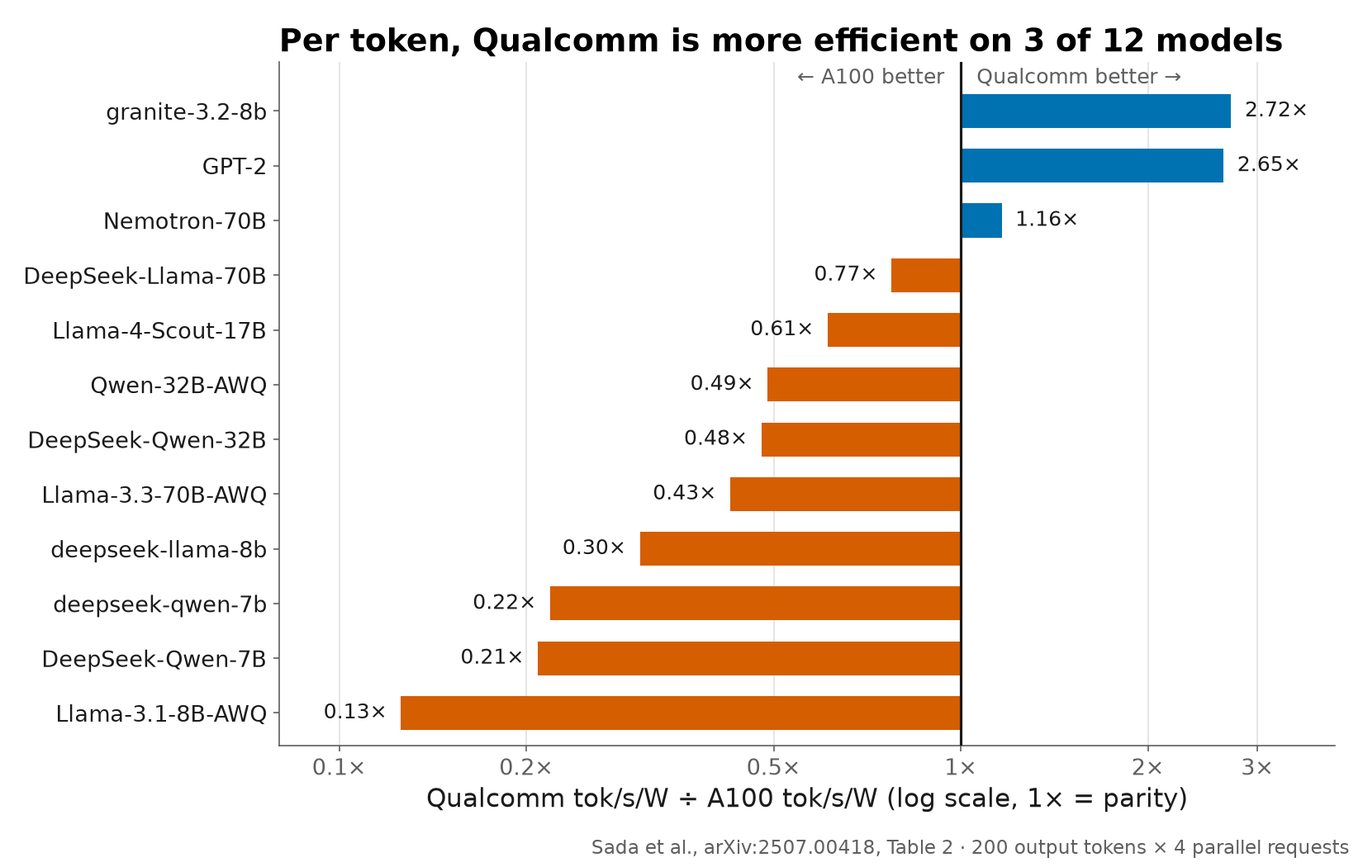
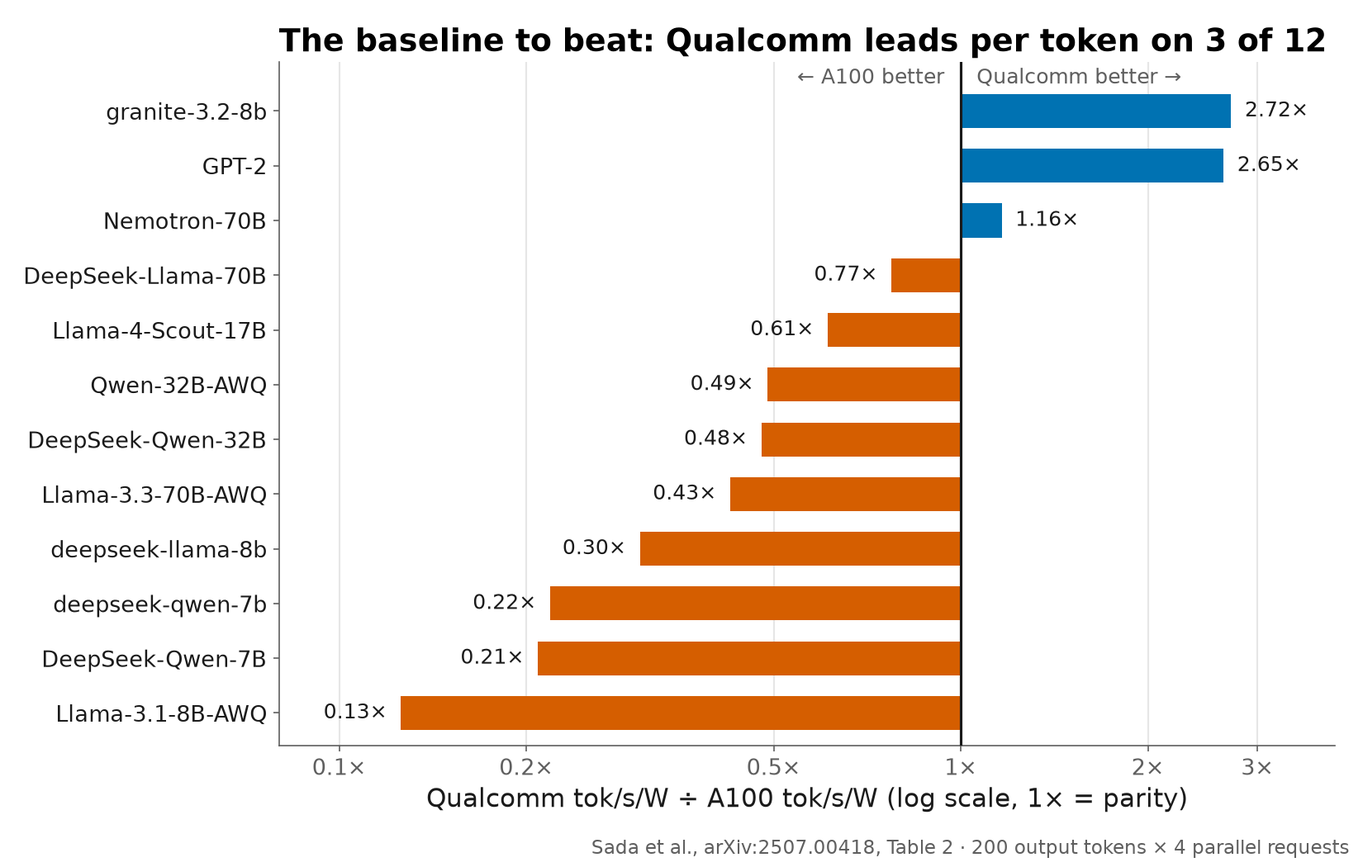
Blog: reframe the paper post around what a new stack could add
Present Sada et al. as the baseline, quoting the abstract's own framing
(competitive efficiency, advantages on specific models, finer allocation),
and move the device-count and batch-cap observations into a "headroom is
in the software" section. Adds the 70B pair (DeepSeek-Llama-70B on 8
devices vs Nemotron-70B on 4) and a short "why inference, why now" section.

Correct the claim that the abstract states "10-35x" (it's in the
conclusion), with an update note on the post. Reword H3 before any runs to
a prediction about the A100 ("raises the A100's tok/s/W"), keeping the test
itself. Retitle the two paper figures neutrally, and fix the paper's title
in CLAUDE.md.

Changed region(s): [[0.1855, 0.0305, 0.9891, 0.061]]

diff --git a/blog/index.html b/blog/index.html
@@ -9,23 +9,25 @@ title: Home
   <p>
     A 2025 UCSD study (<a href="https://arxiv.org/abs/2507.00418">arXiv:2507.00418</a>)
     served 12 LLMs on the <strong>Qualcomm Cloud AI 100 Ultra</strong> and on
-    <strong>4×/8× NVIDIA A100</strong>, using vLLM on both. Its headline was
-    <strong>10–35× lower power</strong>. Per token, though, Qualcomm was more efficient on only
-    <strong>3 of 12</strong> models, and it served most models at ~6–25 tok/s.
+    <strong>4×/8× NVIDIA A100</strong>, using vLLM on both. It found competitive energy efficiency,
+    a lead in tokens per watt on <strong>3 of 12</strong> models, and much finer hardware allocation:
+    a small model on one 36 W device, a 70B model on one card. Its tables also show headroom
+    that looks like software: similar models needing very different amounts of silicon, and
+    batching capped at 4.
   </p>
 
   <p>
     Since then, Qualcomm acquired Modular, and
     <a href="https://www.modular.com/blog/modcon-qualcomm">ModCon 2026</a> showed
     <strong>MAX</strong> running on Cloud AI 100 Ultra. This project re-runs the study
-    with MAX as the serving engine to test whether those numbers reflected the chip or the software.
+    with MAX as the serving engine to measure how much better the chip gets with a newer software stack.
   </p>
 
   <p><strong>Hypotheses, stated before any runs:</strong></p>
   <ul>
-    <li><strong>H1:</strong> on Qualcomm, MAX substantially outperforms the paper's vLLM numbers</li>
+    <li><strong>H1:</strong> on Qualcomm, MAX substantially raises throughput over the paper's numbers at similar power</li>
     <li><strong>H2:</strong> on the A100, MAX matches or beats vLLM in throughput and tok/s/W</li>
-    <li><strong>H3:</strong> a fair A100 setup (1 GPU for ≤8B models) shrinks Qualcomm's apparent advantage</li>
+    <li><strong>H3:</strong> a right-sized A100 (1 GPU for ≤8B models) raises the A100's tokens per watt</li>
     <li><strong>H4:</strong> one Mojo kernel runs unchanged on Apple, NVIDIA, and Qualcomm silicon</li>
   </ul>
 

diff --git a/analysis/plot_paper.py b/analysis/plot_paper.py
@@ -91,7 +91,7 @@ def power_vs_throughput(rows: list[dict]) -> None:
     ax.set_yticks(y, [r["label"] for r in rows], color=INK)
     ax.grid(axis="y", visible=False)
     ax.set_xlabel("Qualcomm vs the A100 setup: × lower (log scale)")
-    ax.set_title("7–35× less power, but 12–75× less throughput", pad=40)
+    ax.set_title("7–35× less power, at 12–75× less throughput", pad=40)
     ax.legend(loc="lower left", bbox_to_anchor=(0, 1.0), ncol=2, handletextpad=0.3, columnspacing=1.6,
               borderaxespad=0.2)
     fig.text(0.99, 0.01, "Sada et al., arXiv:2507.00418, Table 2 · 200 output tokens × 4 parallel requests",
@@ -122,7 +122,7 @@ def efficiency_ratio(rows: list[dict]) -> None:
     ax.text(0.94, len(rows) - 0.4, "← A100 better", color=MUTED, fontsize=12, va="center", ha="right")
     ax.set_ylim(-0.6, len(rows) - 0.1)
     ax.set_xlabel("Qualcomm tok/s/W ÷ A100 tok/s/W (log scale, 1× = parity)")
-    ax.set_title("Per token, Qualcomm is more efficient on 3 of 12 models")
+    ax.set_title("The baseline to beat: Qualcomm leads per token on 3 of 12")
     fig.text(0.99, 0.01, "Sada et al., arXiv:2507.00418, Table 2 · 200 output tokens × 4 parallel requests",
              ha="right", va="bottom", fontsize=11, color=MUTED)
     fig.tight_layout(rect=(0, 0.03, 1, 1))

diff --git a/blog/_posts/2026-09-28-why-this-paper.md b/blog/_posts/2026-09-28-why-this-paper.md
@@ -3,7 +3,7 @@ layout: post
 title: "Chip or software? Why I'm re-running the Qualcomm Cloud AI 100 vs A100 study on Modular MAX"
 date: 2026-09-28
 tags: [qualcomm, nvidia, max, mojo, modular, llm-inference, energy-efficiency]
-excerpt: "A 2025 UCSD study found Qualcomm's Cloud AI 100 Ultra drew 7–35× less power than A100s for LLM serving, yet was more efficient per token on only 3 of 12 models. Both sides ran vLLM. Qualcomm now owns Modular, so here's what the paper shows, what it leaves open, and why it's the right yardstick for MAX and Mojo."
+excerpt: "A 2025 UCSD study served 12 LLMs on Qualcomm's Cloud AI 100 Ultra and on NVIDIA A100s, both through vLLM. It found competitive energy efficiency, a clear lead on some models, and far finer hardware allocation. Its own tables also show headroom that looks like software. Qualcomm now owns Modular, so I'm re-running the study on MAX to measure how much of that headroom a new stack can claim."
 ---
 
 In July 2025, a team at UC San Diego published
@@ -13,10 +13,18 @@ In July 2025, a team at UC San Diego published
 the company behind the MAX inference framework and the Mojo language. A month after that, Modular showed
 [MAX running on the same Qualcomm accelerator](https://www.modular.com/blog/modcon-qualcomm).
 
-Those three events set up a question the paper couldn't ask: **were its results about the chip, or about the
-software running on it?** This post explains what the paper did, why I think it matters, what I read in its numbers,
-and why it's the right yardstick for Modular's claims. The [first results post]({{ site.baseurl }}/2026/09/28/benchmarking-before-benchmarking.html)
+Those three events raise a question the paper had no way to ask: **how much better does this chip get with a newer
+software stack?** This post explains what the paper found, why its numbers suggest there's more to get from the
+hardware, and how I plan to measure it. The [first results post]({{ site.baseurl }}/2026/09/28/benchmarking-before-benchmarking.html)
 covers how I built and validated the benchmark harness.
+
+## Why inference, and why now
+
+Training a model is a one-time cost. Serving it is paid on every request, for as long as the model is in use, and
+for most organizations running LLMs that's now where most of the compute and the power bill goes. At that point
+the numbers that matter are **tokens per joule** and **how finely you can divide hardware among users**, not peak
+FLOPS. Accelerators built for inference, like Qualcomm's Cloud AI 100, are designed around exactly those two
+numbers. The question is whether the software lets them deliver.
 
 ## The paper in one paragraph
 
@@ -24,102 +32,73 @@ The authors serve 12 open models, from GPT-2 (124M parameters) to three 70B mode
 [National Research Platform](https://nationalresearchplatform.org/) (NRP), a shared Kubernetes cluster used by more than
 300 research groups. One side is a node with 8 **Qualcomm Cloud AI 100 Ultra** cards at the San Diego Supercomputer
 Center. Each card contains four independent chips ("devices"). The other side is nodes with 4 or 8 **NVIDIA A100 80 GB** GPUs.
-Both sides serve through **vLLM**: stock vLLM on the A100s, and a Qualcomm-provided vLLM fork on Cloud AI 100, where each
-model is first exported to ONNX and compiled ahead of time into a Qualcomm Program Container (QPC). The benchmark
-sweeps output length (10 to 2,048 tokens) × concurrent requests (1 to 32), and it measures throughput and accelerator
-power, sampled once per second.
+Both sides serve through **vLLM**: stock vLLM on the A100s, and a Qualcomm-provided vLLM fork on Cloud AI 100 (SDK 1.20),
+where each model is first exported to ONNX and compiled ahead of time into a Qualcomm Program Container (QPC). The
+benchmark sweeps output length (10 to 2,048 tokens) × concurrent requests (1 to 32), and it measures throughput and
+accelerator power.
 
-## Why this paper matters
+## What the paper found
 
-**It's an independent measurement of non-NVIDIA inference hardware, with power, in production.** Vendor
-benchmarks are easy to find. Third-party numbers that include watts, taken on a real multi-tenant cluster rather than a
-tuned demo box, are rare. The work was funded under an NSF program whose title states the stakes: *Democratizing the
-Accelerator Ecosystem for Science and Discovery*.
+In the authors' words, Qualcomm "achieves competitive energy efficiency with advantages on specific models while
+enabling more granular hardware allocation." Their examples make the granularity point concrete:
 
-**It measures the right things for inference at scale.** Serving cost is driven by energy per token and by how
-finely you can divide hardware among users, not by peak FLOPS. The paper's strongest finding is about
-**granularity**. A single Cloud AI 100 device served granite-3.2-8b at 36 W, and Nemotron-70B ran on one card (four
-devices) at 148 W. Compare that with the 4 and 8 A100s the authors used, which drew 1,246 W and 2,983 W. For a
-cluster serving hundreds of groups, being able to hand out a 36 W slice instead of a whole 80 GB GPU is an operational
-advantage in its own right.
+- **Small models on a quarter of a card.** granite-3.2-8b serves from a single Cloud AI 100 device at **36 W**, where
+  the A100 setup used four GPUs at 1,246 W.
+- **A 70B model on one card.** Nemotron-70B runs on one card (four devices) at **148 W**, where the A100 setup used
+  eight GPUs at 2,983 W.
 
-**Its protocol is concrete enough to reproduce.** The paper spells out the test grid, the client (Python
-`requests` plus a thread pool), how throughput is computed, and how power is sampled. That's what makes a re-run with a
-different software stack a fair comparison rather than a new, unrelated benchmark.
+For a shared cluster serving hundreds of groups, being able to hand out a 36 W slice instead of a whole 80 GB GPU is
+an operational advantage in its own right.
 
-## What the numbers actually say
+The paper is also clear that A100s deliver higher absolute throughput, and it frames Qualcomm's case around power
+budgets and granularity. Plotting both halves of its Table 2 (200 output tokens, 4 parallel requests) shows where
+Qualcomm already leads:
 
-The headline, repeated in the abstract and the conclusion, is power: Qualcomm uses 10–35× less (from the paper's
-Table 2 I get 7–35×). That's true, but power is only half of efficiency. The other half is how much work you get for
-that power. The paper reports one cell of its grid in detail (Table 2: 200 output tokens, 4 parallel requests), and
-plotting both halves from that table tells a more mixed story:
+![For each of 12 models, how many times less power Qualcomm draws (7 to 35×) and how many times less throughput it delivers (12 to 75×). For granite-3.2-8b, GPT-2 and Nemotron-70B, the power reduction is larger than the throughput reduction.]({{ site.baseurl }}/assets/modlearn/paper-power-vs-throughput.png)
 
-![For each of 12 models, how many times less power Qualcomm draws (7 to 35×) and how many times less throughput it delivers (12 to 75×). Only granite-3.2-8b, GPT-2 and Nemotron-70B have a power reduction larger than their throughput reduction.]({{ site.baseurl }}/assets/modlearn/paper-power-vs-throughput.png)
-
-When the throughput gap (orange) is wider than the power gap (blue), the A100 gets more tokens per joule. Divide one
-by the other and you get the efficiency ratio, which the paper also reports in Table 3:
+Where the power saving (blue) is larger than the throughput gap (orange), Qualcomm produces more tokens per joule.
+Dividing one by the other gives the efficiency ratio, which the paper reports in its Table 3:
 
 ![Qualcomm tokens per second per watt divided by A100's, per model, on a log scale. Above parity: granite-3.2-8b 2.72×, GPT-2 2.65×, Nemotron-70B 1.16×. Below parity: nine models from 0.77× down to 0.13×.]({{ site.baseurl }}/assets/modlearn/paper-efficiency-ratio.png)
 
-**Per token, Qualcomm is more efficient on 3 of 12 models.** On the other nine, the A100 setup is 1.3× to 8× more
-efficient. The absolute throughput on Qualcomm is also low for most models: 6–25 tok/s in total across four
-concurrent requests, which is a few tokens per second for each user.
+These are the "specific models" in the abstract: **granite-3.2-8b (2.7×), GPT-2 (2.7×), and Nemotron-70B (1.16×)**,
+on 2025 software. This chart is the baseline I want to move. If a new stack raises Qualcomm's throughput without
+raising its power much, bars move right, and the count of models above parity goes up.
 
-The paper is candid that A100 delivers "higher absolute throughput," and it frames Qualcomm's case around power
-budgets and granularity. That's fair. But the efficiency picture is the one a data-center operator pays for, and it's
-the one I want to test.
+## The headroom is in the software
 
-## Reading the fine print
+The most interesting numbers in the paper are the ones that don't line up, because they point at what software could
+fix. Two pairs of models stand out:
 
-A careful re-read turned up six details that shape how far those numbers generalize. None of them is a criticism of
-the effort; a first measurement in a production cluster is hard, and the authors document their choices. They are the
-reasons to measure again.
+| Pair | Qualcomm devices | Throughput | Power |
+|---|---|---|---|
+| granite-3.2-8b | 1 | 25 tok/s | 36 W |
+| DeepSeek-R1-Distill-Llama-8B (same size) | 4 | 24 tok/s | 140 W |
+| DeepSeek-R1-Distill-Llama-70B | 8 | 8 tok/s | 292 W |
+| Nemotron-70B (same Llama-70B architecture) | 4 | 6 tok/s | 148 W |
 
-1. **The batch size is fixed at compile time, and the A100 was capped to match.** On Qualcomm, each model is compiled
-   ahead of time for a batch size of 1, 2, or 4, and the paper notes that "compilation can take hours." On A100, vLLM's
-   `--max-num-seqs` was set "matching the batch size from QPC compilation." So neither system served more than four
-   sequences at once, even in the 16- and 32-request tests. That's a sensible choice for a like-for-like comparison. It
-   also switches off the thing GPUs are best at, which is batching dozens of requests together, and it explains why
-   the paper's headline cell is 4 parallel requests.
-2. **Small models ran on 4 A100s.** The authors say some of them "could potentially run on fewer A100 GPUs." An 8B model
-   fits on one A100 80 GB, so the A100 power for those rows is roughly four GPUs' worth for one GPU's work.
-3. **The precision may differ.** The A100s ran fp16. Qualcomm was compiled with "FP16 or INT8 quantization where
-   applicable," and the paper doesn't say which models used which.
-4. **One cell of 30 is reported.** The grid covers 6 output lengths × 5 concurrency levels, but the tables show only
-   200 tokens × 4 requests. The prompts and code aren't published, and two rows (`deepseek-qwen-7b` and `DeepSeek-Qwen-7B`)
-   report different numbers without explanation.
-5. **Power is sampled at 1 s, for the accelerator only, and idle isn't measured.** In
-   [my pilot]({{ site.baseurl }}/2026/09/28/benchmarking-before-benchmarking.html), 1 s sampling overstated
-   efficiency by up to 12× on sub-second batches. That was on an Apple GPU that idles near 0 W, so the effect on an A100
-   would be smaller, but the exposure exists for the 10- and 50-token cells. The paper also says Qualcomm's advantage
-   grows at idle, but it doesn't report idle power.
-6. **Table 3's rack-scale view assumes perfect scaling.** It extrapolates to 32 Qualcomm devices and 8 A100s by assuming
-   N copies of a model deliver N× the throughput, which is an upper bound.
+In both pairs, similar models get similar throughput from very different amounts of silicon. If the chip's raw
+capability set the limit, four devices would do more than one. Something between the model and the silicon is doing
+the limiting: how the model is exported, compiled, split across devices, and scheduled.
 
-## Chip or software? The case for software
+Two more signs point the same way:
 
-Here's the evidence inside the paper itself. The Qualcomm hardware serves **granite-3.2-8b on one device at 25 tok/s
-and 36 W**. It serves **DeepSeek-R1-Distill-Llama-8B**, a model of the same size, on **four devices at 24 tok/s and
-140 W**. That's four times the silicon and nearly four times the power for the same throughput. It also serves
-**GPT-2 at 218 tok/s on one device**. If the chip's raw capability set the limit, four devices would do more than one.
-Something between the model and the silicon is doing the limiting: how the model is exported, compiled, partitioned
-across devices, and scheduled.
+- **Batching is fixed at compile time.** Each Qualcomm model is compiled ahead of time for a batch size of 1, 2, or 4,
+  and the paper notes that "compilation can take hours." To compare like with like, the authors capped vLLM on the
+  A100 to the same batch size. So neither side batched more than four requests, even in the 16- and 32-request tests.
+  Batching many requests together is the main way servers turn spare compute into throughput.
+- **Per-user speed is low.** Most models serve at 6–25 tok/s across four concurrent requests, a few tokens per second
+  for each user. GPT-2, which is small enough to be compute-light, reaches 218 tok/s on a single device. The hardware
+  can clearly move faster than most of these numbers show.
 
-To be fair, the two 8B rows may also differ in precision or compiled batch size, since the paper doesn't say. But
-those are software choices too.
+The paper doesn't say which precision each Qualcomm model was compiled at (FP16 or INT8) or which batch size, and
+those may explain part of the gaps above. But precision and batch size are software choices too. Every step in the
+path is software: the ONNX export, the ahead-of-time compile, the device partitioning, and a vLLM fork maintained
+separately from upstream vLLM.
 
-Every step in that path is software:
-- the ONNX export
-- the ahead-of-time QPC compile, fixed to one batch size and context length
-- the device-group partitioning
-- a vLLM fork maintained separately from upstream vLLM
+I can't tell from outside how much of the gap software can close. That's what the re-run is for.
 
-The paper's own workflow description (sections 2.3 and 2.5) reads like a list of places where performance can be won
-or lost.
-
-I can't prove from the outside that the software is the bottleneck. That's exactly why it's worth testing.
-
-## Why this matters for Modular, Mojo, and MAX
+## Why MAX is the stack to test
 
 On July 29, 2026, Qualcomm completed its acquisition of Modular and said that "Mojo, MAX, and Modular Cloud will
 continue as products and brands." Modular's pitch has always been portability without a performance penalty: one
@@ -128,55 +107,58 @@ that "the same code that runs on NVIDIA and AMD GPUs can now target Qualcomm Tec
 reaching "6.7× the baseline" after about three weeks of optimization, and Gemma 4 31B served across a card's four
 devices with tensor parallelism.
 
-One detail matters for comparisons: that 6.7× is measured against a *PyTorch implementation* on Cloud AI 100, not
-against the paper's vLLM setup. The two numbers can't be put side by side. That gap is exactly what an independent
-re-run can fill.
+That 6.7× is measured against a *PyTorch implementation* on Cloud AI 100, not against the paper's vLLM setup, so the two
+can't be put side by side yet. This paper is the natural yardstick to close that gap:
 
-That's why this paper is the right yardstick:
-
-- **It's the best public "before" picture.** It's an independent, publicly available measurement of Qualcomm's inference
-  stack before MAX, with power, on the exact accelerator Modular now targets. If MAX unlocks the hardware, it should
-  show up here as more throughput at similar watts, and the 3-of-12 count should move.
-- **Portability has to be measured on both sides.** Running MAX on the A100 against vLLM asks whether a portable
-  stack costs performance on the incumbent's hardware. Running MAX on Qualcomm against the paper asks whether it
-  helps the new hardware. Both halves matter; winning on one while losing on the other isn't portability.
-- **The compile-time batch limit is a software question with a measurable answer.** If MAX can serve Cloud AI 100 at
-  16 or 32 concurrent requests without a fixed-batch compile, that changes what the chip is good for.
+- **It's the best public "before" picture.** It's an independent, published measurement of Qualcomm's inference stack
+  before MAX, with power, on the accelerator Modular now targets. If MAX unlocks the hardware, it shows up here as more
+  throughput at similar watts.
+- **Its protocol is concrete enough to reproduce.** The paper spells out the test grid, the client (Python `requests`
+  plus a thread pool), how throughput is computed, and how power is sampled. That makes a re-run with a different
+  software stack a like-for-like comparison, not a new benchmark.
+- **The batch limit has a measurable answer.** If MAX can serve Cloud AI 100 at 16 or 32 concurrent requests without a
+  fixed-batch compile, that changes what the chip is good for.
+- **Portability has to hold on both sides.** Running MAX on the A100 against vLLM checks that a portable stack doesn't
+  cost performance on NVIDIA hardware. Running MAX on Qualcomm checks that it helps the new hardware.
 - **"Same code" is testable.** Writing one Mojo kernel and running it unchanged on an Apple GPU, an NVIDIA GPU, and,
   with luck, a Qualcomm device is the most direct check of the portability claim I can do from outside.
-- **Independent numbers matter more after an acquisition.** Qualcomm now owns both the chip and the software stack. A
-  third-party measurement with published code, data, and every cell of the grid is useful to everyone, Modular
-  included.
 
-## What I'm changing, and why
+## The experiment
 
-The plan is to keep everything the paper specifies and fix what limits it:
+I keep everything the paper specifies, run it on both engines, and set up both sides as well as each can be set up:
 
 | | Paper | This re-run |
 |---|---|---|
 | Test grid, client, throughput formula | 6 lengths × 5 concurrency, requests + thread pool | **Same** |
 | Engines | vLLM on both sides | **vLLM and MAX** on A100; **MAX** on Qualcomm |
 | Batch cap | Both capped at the QPC batch (1, 2, or 4) | **Both**: a paper-faithful capped run *and* each system at its best |
-| A100 count for ≤8B models | 4 | **1** (and 4 for a few models, to line up with the paper) |
+| Hardware per model | Qualcomm 1–8 devices; A100 4 or 8 GPUs | The fewest that fit on each side (1 A100 for ≤8B models), plus the paper's setup for a few models so the numbers line up |
 | Precision | A100 fp16; Qualcomm fp16 or INT8 | **bf16 on every engine**, stated per row (MAX offers bf16, not fp16, for most models) |
 | Power | 1 s sampling, accelerator only | 1 s sampling **plus** NVML's energy counter, windows of **≥5 s**, **idle measured** |
-| Latency | End-to-end only | Also time to first token and inter-token latency, measured warm |
-| Reporting | 1 of 30 cells; prompts and code unpublished | **All cells**, prompts, code, and raw data [on GitHub](https://github.com/kredd2506/modlearn) |
+| Latency | End-to-end | Also time to first token and inter-token latency, measured warm |
+| Reporting | The 200-token × 4-request cell | **All 30 cells**, prompts, code, and raw data [on GitHub](https://github.com/kredd2506/modlearn) |
+
+Right-sizing works in both directions. Fewer A100s for small models will likely improve the A100's tokens per watt,
+and lifting the batch cap should help both chips. I'll report both effects.
 
 ## The hypotheses, stated before the runs
 
+Each one comes with what would count as failure.
+
 - **H1, Qualcomm:** MAX serves the paper's models on Cloud AI 100 Ultra at substantially higher throughput than the
-  paper's vLLM numbers, at similar power. *This fails if the throughput stays in the same range.*
+  paper's numbers, at similar power, so more models land above parity. *This fails if the throughput stays in the
+  same range.*
 - **H2, A100:** MAX matches or beats vLLM in throughput and tok/s/W on the same GPU. *This fails if MAX is slower
   or less efficient in most cells.*
-- **H3, a fair A100:** running ≤8B models on 1 A100 instead of 4 shrinks Qualcomm's apparent efficiency advantage on
-  those models. *This fails if Qualcomm's lead survives.*
+- **H3, right-sized A100:** serving ≤8B models on 1 A100 instead of 4 raises the A100's tokens per watt, so the fair
+  comparison on those models is closer than Table 2 shows. *This fails if the A100's efficiency doesn't improve.*
 - **H4, Mojo:** one Mojo kernel runs unchanged on Apple, NVIDIA, and Qualcomm silicon. *This fails if it needs
   per-chip rewrites.*
 
-I'll report the results that go against the story as prominently as the ones that support it. The biggest risk is H1:
-I don't yet have access to Qualcomm hardware. If that doesn't change, H1 will be reported as unanswered, and H2–H4 will
-still stand on their own.
+I'll report every result with the same prominence, whichever way it goes. An independent number is only useful if it
+could have come out the other way, and that matters more now that Qualcomm owns both the chip and the software stack.
+The biggest risk is H1: I don't yet have access to Qualcomm hardware. If that doesn't change, H1 will be reported as
+unanswered, and H2–H4 will still stand on their own.
 
 ## What's next
 
@@ -188,3 +170,7 @@ for Qualcomm access.
 The figures in this post come from the paper's Table 2, transcribed to
 [`results/paper/sada2025-table2.csv`](https://github.com/kredd2506/modlearn/blob/main/results/paper/sada2025-table2.csv)
 and plotted by [`analysis/plot_paper.py`](https://github.com/kredd2506/modlearn/blob/main/analysis/plot_paper.py).
+
+*Updated September 29, 2026: reframed around what a new software stack could add, and corrected how I described the
+paper's findings. An earlier version attributed the "10–35×" power figure to the abstract; it comes from the
+conclusion, and the abstract describes efficiency as competitive, with advantages on specific models.*

diff --git a/blog/_drafts/chip-or-software-max-qualcomm.md b/blog/_drafts/chip-or-software-max-qualcomm.md
@@ -4,7 +4,7 @@ title: "Was it the chip or the software? Re-running the Qualcomm Cloud AI 100 vs
 comments: true
 categories: [ml-systems, benchmarking]
 tags: [mojo, max, modular, qualcomm, llm-inference]
-excerpt: "A UCSD study found Qualcomm's Cloud AI 100 Ultra drew 10–35× less power than A100s for LLM serving, yet was more efficient per token on only 3 of 12 models. Both sides ran vLLM. We re-run it with Modular's MAX to ask whether that was the chip or the software."
+excerpt: "A UCSD study found Qualcomm's Cloud AI 100 Ultra competitive with A100s on energy efficiency for LLM serving, ahead per token on 3 of 12 models, on 2025 software. We re-run it with Modular's MAX to measure how much a newer stack adds."
 ---
 
 <!-- Draft (Jekyll doesn't build _drafts). To publish: move to blog/_posts/YYYY-MM-DD-chip-or-software-max-qualcomm.md,
@@ -17,15 +17,15 @@ _TBD once results are in._
 ## The paper, and what its numbers actually say
 - Sada et al. ([arXiv:2507.00418](https://arxiv.org/abs/2507.00418)) served 12 LLMs with vLLM on the Qualcomm Cloud
   AI 100 Ultra and on 4×/8× A100.
-- The headline is 10–35× lower power. Per token, though, Qualcomm is more efficient on 3 of 12 models, and its
-  throughput is ~6–25 tok/s for most models.
+- It found competitive energy efficiency, a per-token lead on 3 of 12 models, and much finer hardware allocation.
+  Most models served at ~6–25 tok/s, and similar models needed very different device counts: headroom for software.
 - Since then, Qualcomm acquired Modular, and [ModCon 2026](https://www.modular.com/blog/modcon-qualcomm) showed MAX
   running on Cloud AI 100 Ultra.
 
 ## Hypotheses (stated before running anything)
-- **H1:** on Qualcomm, MAX substantially outperforms the paper's vLLM numbers
+- **H1:** on Qualcomm, MAX substantially raises throughput over the paper's numbers at similar power
 - **H2:** on the A100, MAX ≥ vLLM in throughput and tok/s/W
-- **H3:** a fair A100 configuration (1 GPU for ≤8B models) shrinks Qualcomm's apparent advantage
+- **H3:** a right-sized A100 (1 GPU for ≤8B models) raises the A100's tokens per watt
 - **H4:** one Mojo kernel runs unchanged on Apple, NVIDIA and Qualcomm silicon
 
 ## Method: what we kept, what we changed

diff --git a/blog/_posts/2026-09-28-benchmarking-before-benchmarking.md b/blog/_posts/2026-09-28-benchmarking-before-benchmarking.md
@@ -10,14 +10,13 @@ This project asks one question: **was it the chip or the software?**
 
 In 2025, Sada et al. published
 ["Serving LLMs in HPC Clusters: A Comparative Study of Qualcomm Cloud AI 100 Ultra and NVIDIA Data Center GPUs"](https://arxiv.org/abs/2507.00418).
-They served 12 models with vLLM on both platforms. The headline was that the Qualcomm card drew
-**10–35× less power**. Their own Table 2 (200 output tokens, 4 concurrent requests) tells a more mixed story, though.
-Qualcomm has the better tokens per second per watt on only **3 of 12** models, and it serves most models at about
-6–25 tok/s.
+They served 12 models with vLLM on both platforms and found that the Qualcomm card offers competitive energy
+efficiency, leads in tokens per second per watt on **3 of 12** models, and can serve models on far less hardware
+(one 36 W device for an 8B model). It also serves most models at about 6–25 tok/s, which leaves room to grow.
 
 Both sides ran vLLM, so every number measures the chip and its software stack together. I'm re-running the study with
-Modular's [MAX](https://max.modular.com/) serving engine alongside vLLM, to see how much of that gap belongs to
-the software. The four hypotheses, written down before any runs, are on the [home page]({{ site.baseurl }}/).
+Modular's [MAX](https://max.modular.com/) serving engine alongside vLLM, to measure how much a newer software stack
+adds. The four hypotheses, written down before any runs, are on the [home page]({{ site.baseurl }}/).
 The code and data are at [github.com/kredd2506/modlearn](https://github.com/kredd2506/modlearn).
 For why I chose this paper and what I read in its numbers, see
 [Chip or software?]({{ site.baseurl }}/2026/09/28/why-this-paper.html).

diff --git a/CLAUDE.md b/CLAUDE.md
@@ -1,7 +1,7 @@
 # modlearn
 
-This repo re-runs the benchmark from Sada et al., "Serving LLMs in HPC Clusters: Qualcomm Cloud AI 100
-Ultra vs NVIDIA A100" ([arXiv:2507.00418](https://arxiv.org/abs/2507.00418)), with **Modular MAX** as the
+This repo re-runs the benchmark from Sada et al., "Serving LLMs in HPC Clusters: A Comparative Study of
+Qualcomm Cloud AI 100 Ultra and NVIDIA Data Center GPUs" ([arXiv:2507.00418](https://arxiv.org/abs/2507.00418)), with **Modular MAX** as the
 serving engine next to vLLM, and uses Mojo for custom kernels. The public output is a blog post in `blog/`.
 
 Question under test: were the paper's results limited by the software stack (vLLM on both sides)? The four
